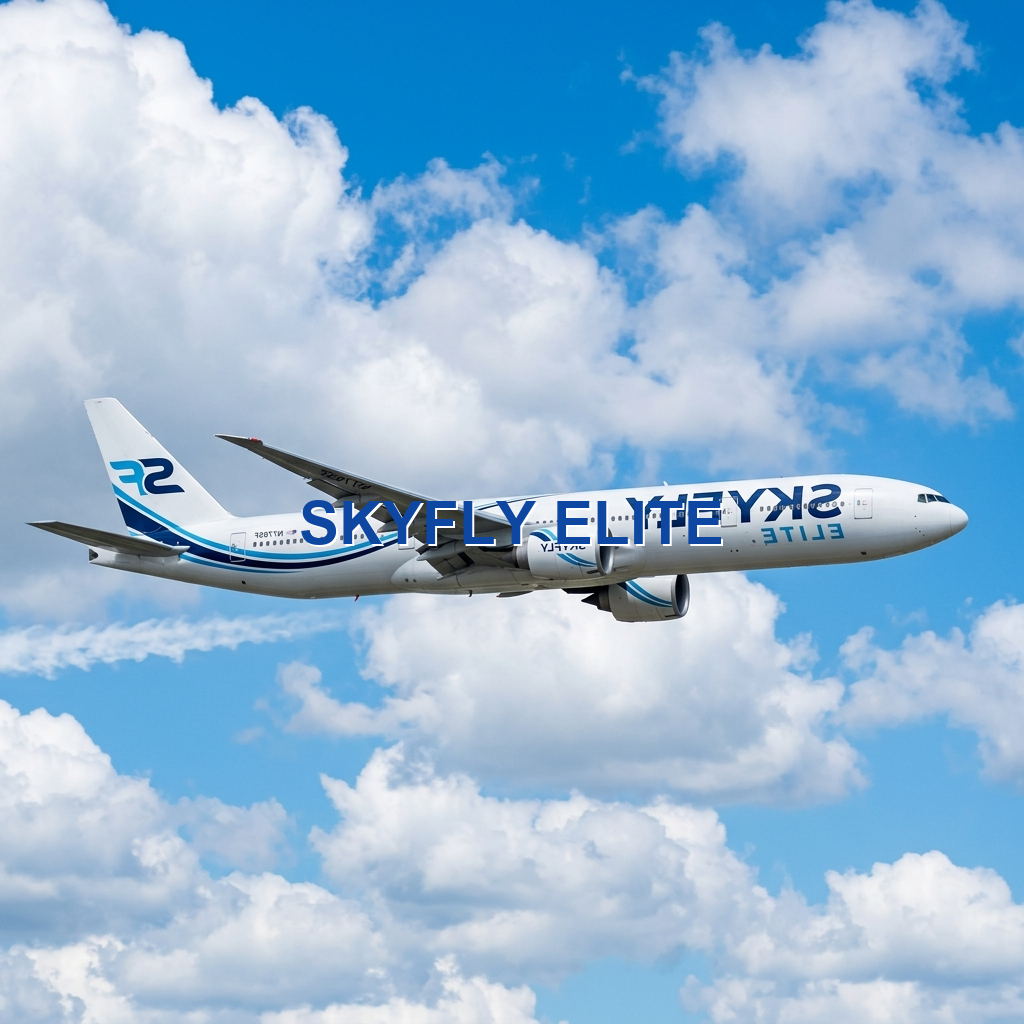
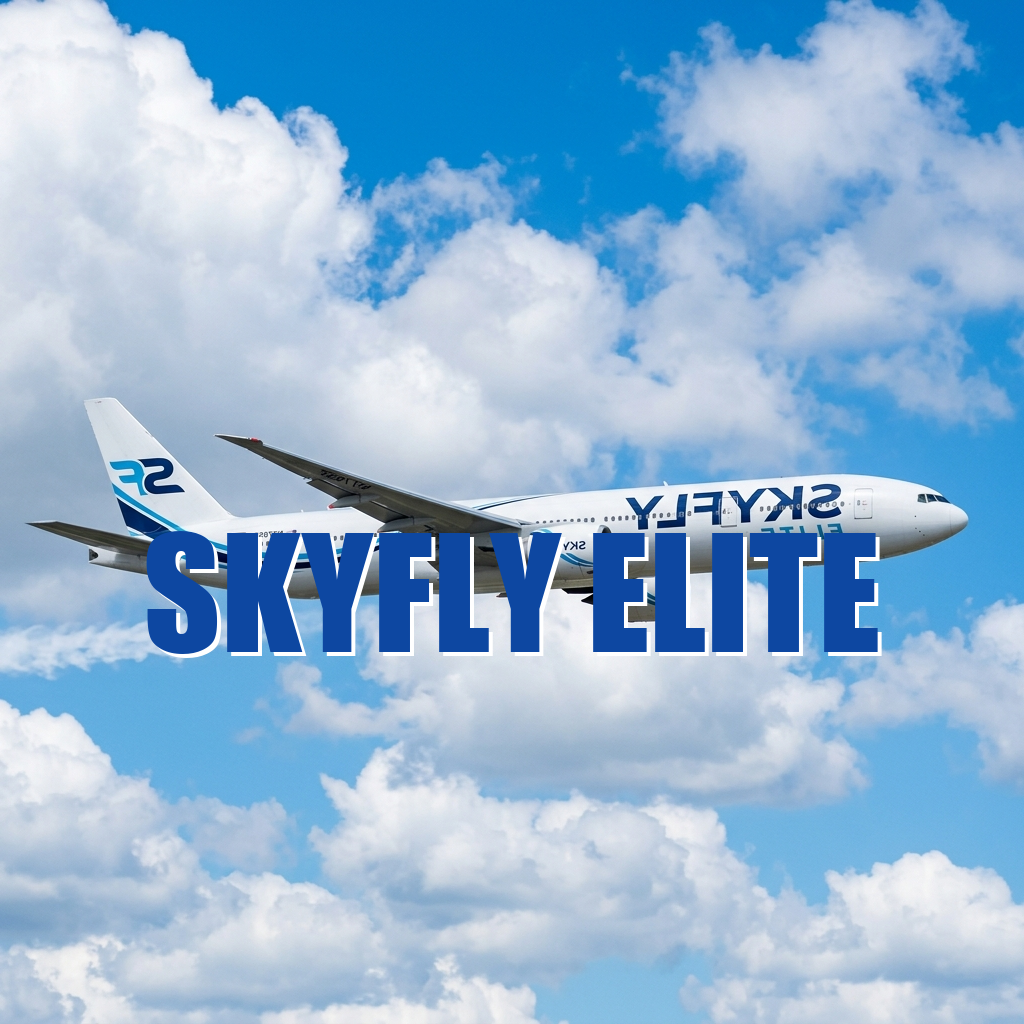
Enhance hero image: fly left-to-right with HUGE SkyFly Elite text

Changed region(s): [[0.125, 0.4688, 0.875, 0.6562]]

diff --git a/flip_image_huge.py b/flip_image_huge.py
@@ -1,0 +1,56 @@
+import os
+from PIL import Image, ImageDraw, ImageFont
+
+img_path = r'e:\Desktop\Airline\src\main\resources\static\images\hero-skyfly-elite.png'
+out_path = r'e:\Desktop\Airline\src\main\resources\static\images\hero-skyfly-elite-right.png'
+
+if not os.path.exists(img_path):
+    print(f"Error: {img_path} not found")
+    exit(1)
+
+# Open image and flip horizontally
+img = Image.open(img_path)
+img = img.transpose(Image.FLIP_LEFT_RIGHT)
+
+# Draw text
+draw = ImageDraw.Draw(img)
+
+# Try to find a nice bold font, fallback to arialbd
+font_paths = [
+    "C:\\Windows\\Fonts\\impact.ttf",
+    "C:\\Windows\\Fonts\\arialbd.ttf",
+    "C:\\Windows\\Fonts\\trebucbd.ttf"
+]
+font = None
+for fp in font_paths:
+    if os.path.exists(fp):
+        try:
+            font = ImageFont.truetype(fp, 150) # HUGE font
+            break
+        except:
+            pass
+
+if not font:
+    font = ImageFont.load_default()
+
+text = "SKYFLY ELITE"
+img_w, img_h = img.size
+
+try:
+    left, top, right, bottom = draw.textbbox((0, 0), text, font=font)
+    text_w = right - left
+    text_h = bottom - top
+except AttributeError:
+    text_w, text_h = draw.textsize(text, font=font)
+
+# Position text in the center, slightly down (to hit the fuselage typically)
+text_x = (img_w - text_w) // 2
+text_y = (img_h - text_h) // 2 + 50
+
+# Draw text with slight shadow
+shadow_color = (255, 255, 255, 120)
+draw.text((text_x + 4, text_y + 4), text, font=font, fill=shadow_color)
+draw.text((text_x, text_y), text, font=font, fill=(13, 71, 161, 230))
+
+img.save(out_path)
+print("Image flipped and saved with HUGE text!")
